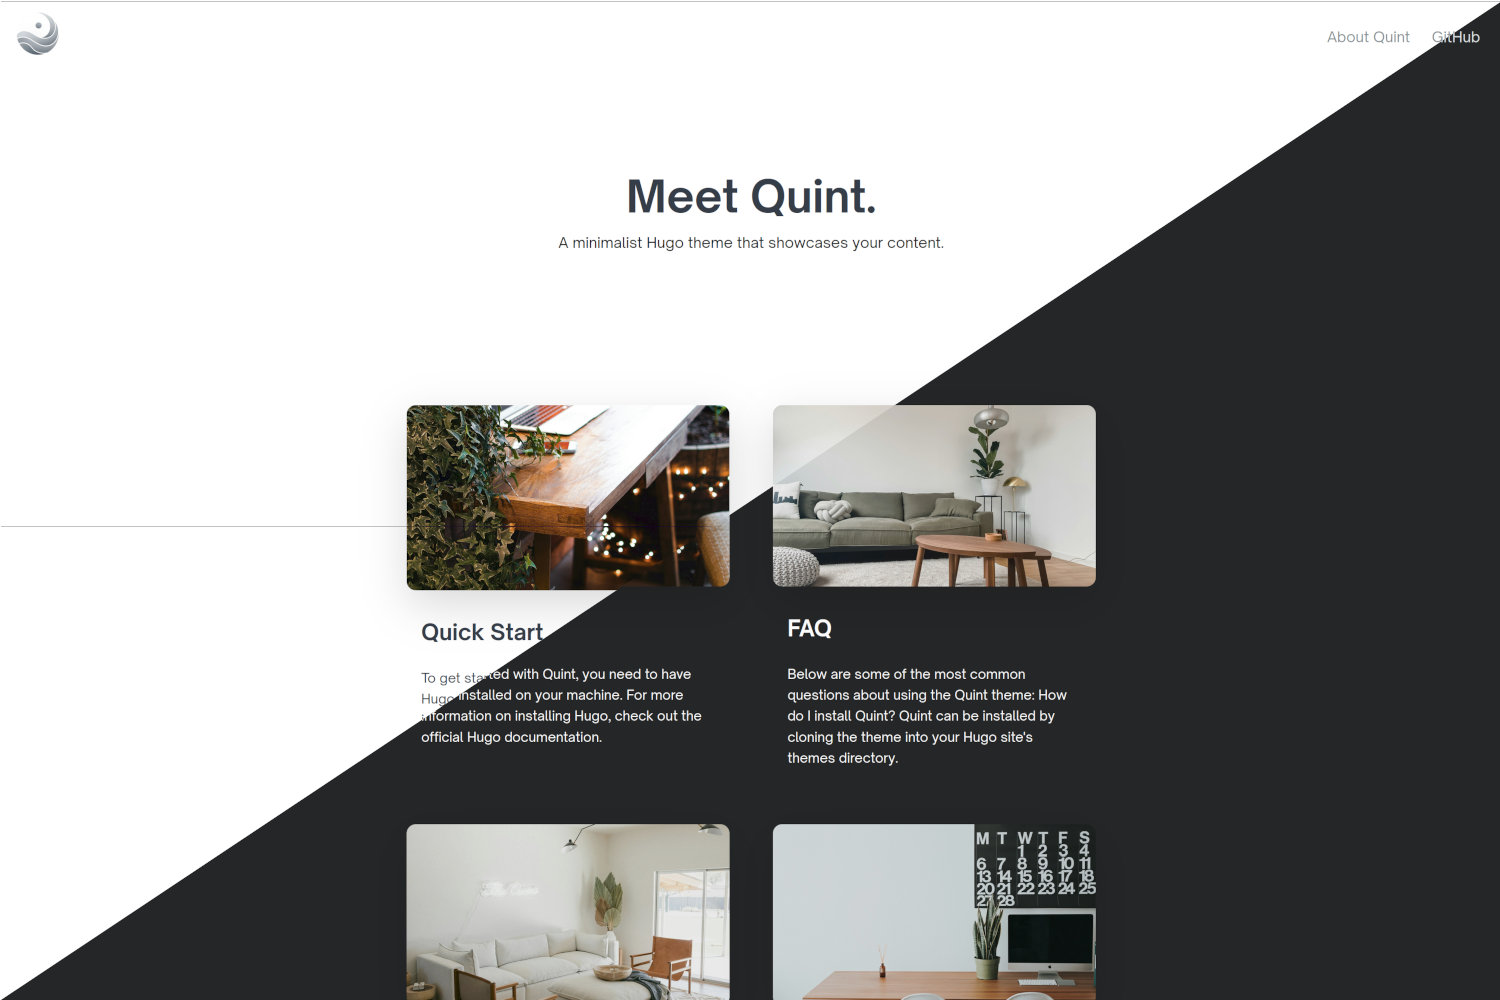
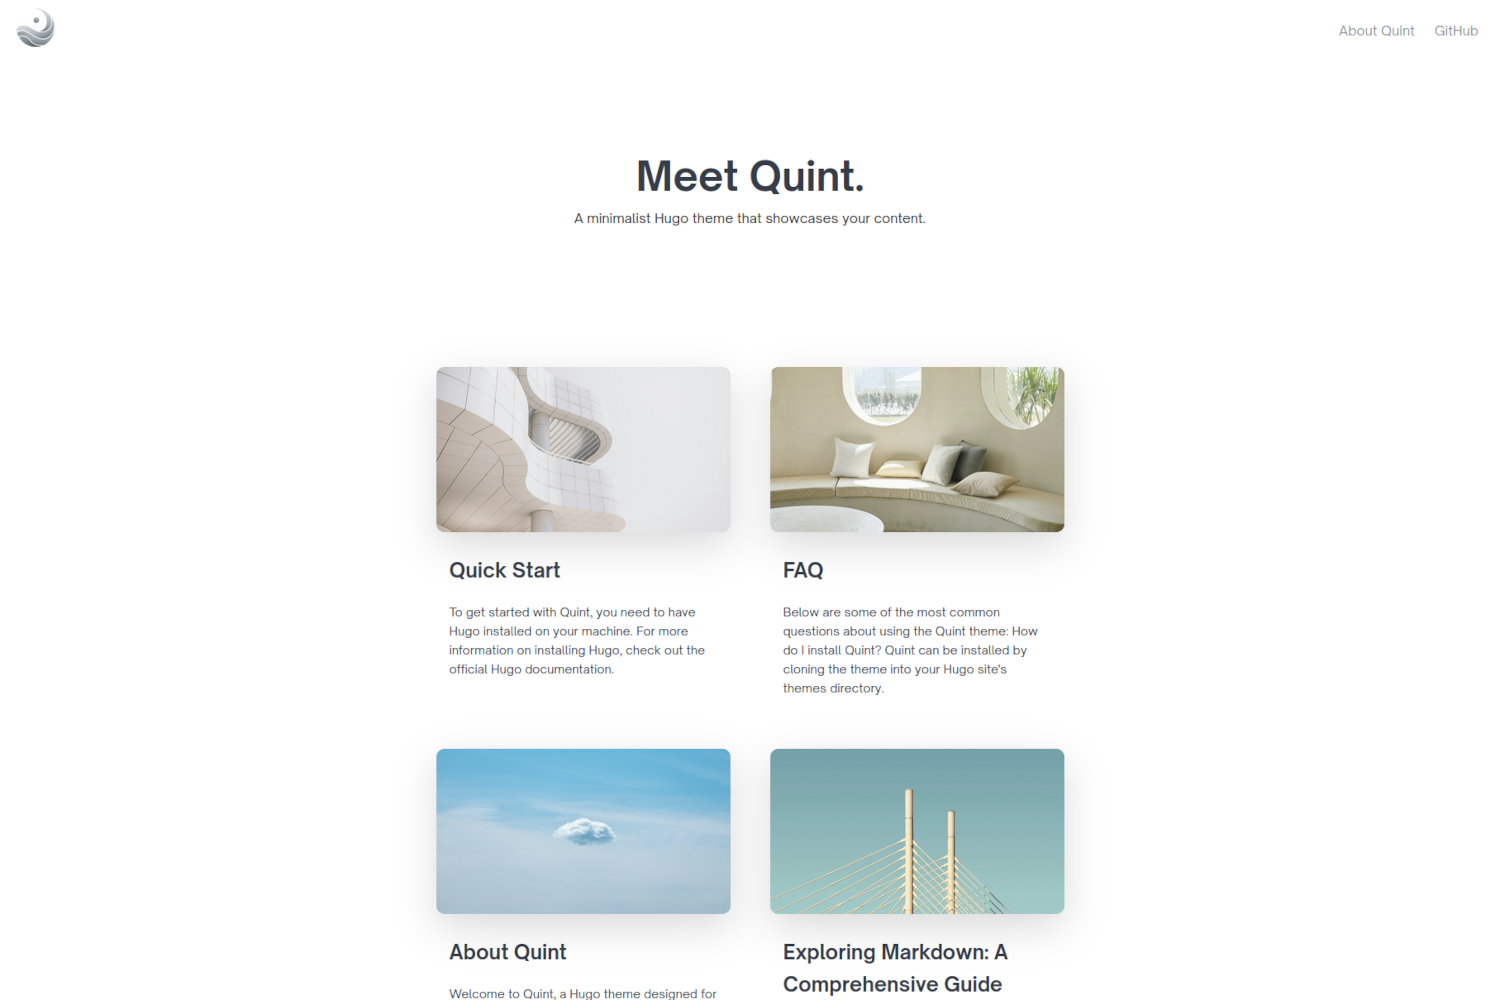
Update readme and images

diff --git a/static/css/styles.css b/static/css/styles.css
@@ -12,7 +12,7 @@
         --primary-bg: #252627;
         --primary-text: #fff;
         --secondary-text: #fefefe;
-        --link-color: #dce4e6;
+        --link-color: #9fb1b6;
     }
     img {
         opacity: 90%;
@@ -50,6 +50,12 @@ body {
 a, a:visited {
     color: var(--link-color);
     text-decoration: none;
+    position: relative;
+    transition: color 0.3s ease;
+}
+
+a:hover, a:focus {
+    color: var(--primary-text);
 }
 
 details {

diff --git a/README.md b/README.md
@@ -1,6 +1,8 @@
 # Quint: Essence of Minimalism
 
-![Quint screenshot](images/tn.png)Quint is a minimalist Hugo theme designed to evoke a clean, airy feel, emphasizing clarity and ease of reading. It features elegant built-in image banners and a lightweight design, making it ideal for displaying your content center stage.
+![Quint screenshot](images/mock.png)
+
+Quint is a minimalist Hugo theme designed to evoke a clean, airy feel, emphasizing clarity and ease of reading. It features elegant built-in image banners and a lightweight design, making it ideal for displaying your content center stage.
 
 ## Features
 
@@ -55,6 +57,14 @@ hugo server
 
 Navigate to `http://localhost:1313` in your web browser to see your site in action with the Quint theme.
 
+### Get Updates
+
+To download the latest version of Quint, run:
+
+```bash
+git submodule update --remote themes/quint
+```
+
 ## Customizing
 
 Quint is designed to be simple to customize. Add your own custom CSS files easily by naming them in your Hugo config:
@@ -92,3 +102,8 @@ Want some ideas to get started? Here's a quick list of features I'd love to see 
 ## License
 
 This theme is released under the MIT License. For more details, see the LICENSE file.
+
+## Attribution
+
+- Quint uses the excellent [Open Sauce Font](https://github.com/marcologous/Open-Sauce-Fonts).
+- Device mockup created from [deviceframes.com](https://deviceframes.com/templates/iphone-13).
